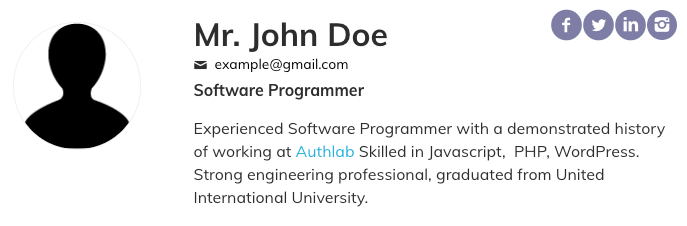
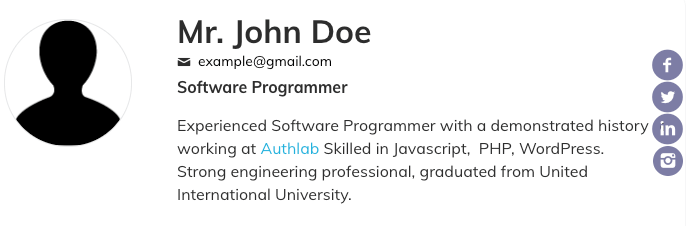
template 3 added

diff --git a/src/js/Components/Settings.vue b/src/js/Components/Settings.vue
@@ -14,17 +14,20 @@
         <div class="inner_box">
             <el-row class="users_template_row">
             </el-row>
-            <el-row class="users_template_row">
-                <el-col class="inner_column" :sm=22 :lg=18>
+            <el-row class="users_template_row" :gutter="20">
+                <el-col class="inner_column" :sm=22 :lg=10>
                     <el-radio class="template_radio" v-model="useTemp" label="template1">Template 1</el-radio>
                     <img :src="assets_url + 'admin/templates/template1.png'"/>
-
+                </el-col>
+                <el-col class="inner_column" :sm=22 :lg=10>
+                    <el-radio class="template_radio" v-model="useTemp" label="template2">Template 2</el-radio>
+                    <img :src="assets_url + 'admin/templates/template2.png'"/>
                 </el-col>
             </el-row>
             <el-row class="users_template_row">
-                <el-col class="inner_column" :sm=22 :lg=18>
-                    <el-radio class="template_radio" v-model="useTemp" label="template2">Template 2</el-radio>
-                    <img :src="assets_url + 'admin/templates/template2.png'"/>
+                <el-col class="inner_column" :sm=22 :lg=10>
+                    <el-radio class="template_radio" v-model="useTemp" label="template3">Template 3</el-radio>
+                    <img :src="assets_url + 'admin/templates/template3.png'"/>
                 </el-col>
             </el-row>
         </div>
@@ -65,8 +68,6 @@
 </script>
 <style lang="scss">
     .users_template_row {
-        max-width: 700px;
-
         .inner_column {
             position: relative;
         }

diff --git a/src/scss/Public/public.scss b/src/scss/Public/public.scss
@@ -6,52 +6,79 @@
   padding: 17px;
   display: flex;
   border-radius: 12px;
+
   h1.author_name {
     margin-bottom: 0px;
   }
+
   .author_bio_left_col {
     flex: 1 0 0px;
     padding: 7px 0 0 0;
-    img{
+
+    img {
       border-radius: 83px;
     }
 
   }
+
   .author_bio_content {
     flex: 3 0 0;
     padding: 0 0 0 20px;
+
+    .author_bio_content_inner {
+      position: relative;
+
+      .author_bio_socials {
+        text-align: center;
+        position: absolute;
+        right: -30px;
+        display: grid;
+      }
+    }
+
     .author_bio_socials {
       a {
-        margin-right:10px;
+        margin-right: 10px;
       }
     }
   }
+
   .author_email {
     text-decoration: none;
     font-size: 14px;
     margin: 0px;
     display: flex;
-    a{
+
+    a {
       color: black;
     }
-    .authbio-mail{
+
+    .authbio-mail {
       padding-top: 3px;
       padding-right: 7px;
     }
   }
+
   .author_bio_desig {
     font-weight: bold;
   }
-  .author_bio_left_col{
+
+  .author_bio_left_col {
     .author_bio_socials {
       justify-content: space-around;
       padding: 13px 0px 0px 0px;
+      display: flex;
+    }
+  }
+
+  .author_bio_socials_template1 {
+    .author_bio_socials {
+      display: flex;
     }
   }
 
   .author_bio_socials {
     text-align: center;
-    display: flex;
     i.authbio-instagrem {
       border-radius: 17px;
       font-size: 17px;
@@ -59,7 +86,8 @@
       color: white;
       padding: 6px 6px 3px 7px;
     }
-    a{
+
+    a {
       font-size: 32px;
       color: #7d7da5;
     }

diff --git a/includes/Classes/Builder/Render.php b/includes/Classes/Builder/Render.php
@@ -47,7 +47,7 @@ class Render
                     }
                     ?>
                 </div>
-                <?php if($template !== 'template1'){ ?>
+                <?php if($template !== 'template1' && $template !== 'template3'){ ?>
                     <div class="author_bio_socials">
 
                     <?php if ($socials['facebook'] === 'true') { ?>
@@ -79,37 +79,11 @@ class Render
             </div>
 
             <div class="author_bio_content">
+            <div class="author_bio_content_inner">
                 <h1 class="author_name">
                     <?php echo($data->author_name); ?>
                 </h1>
-                <?php
-                if ($data->author_email !== '') {
-                    ?>
-                    <div class="author_email">
-                        <i class="authbio-mail"></i>
-                        <a href="mailto:<?php echo($data->author_email); ?>">
-                            <?php echo($data->author_email); ?>
-                        </a>
-                    </div>
-                    <?php
-                }
-                ?>
-
-
-                <p class="author_bio_desig">
-                    <?php echo($data->author_designation); ?>
-                </p>
-
-                <div class="author_bio_descr">
-                    <?php
-                    if ($data->useBioFrom === 'newAddedBio') {
-                        echo($info['bio']);
-                    } else {
-                        echo wpautop(wp_kses_post($bio));
-                    }
-                    ?>
-                </div>
-                <?php if($template === 'template1'){ ?>
+                <?php if($template === 'template3'){ ?>
                     <div class="author_bio_socials">
 
                         <?php if ($socials['facebook'] === 'true') { ?>
@@ -138,7 +112,63 @@ class Render
 
                     </div>
                 <?php } ?>
+            </div>
+                <?php
+                if ($data->author_email !== '') {
+                    ?>
+                    <div class="author_email">
+                        <i class="authbio-mail"></i>
+                        <a href="mailto:<?php echo($data->author_email); ?>">
+                            <?php echo($data->author_email); ?>
+                        </a>
+                    </div>
+                    <?php
+                }
+                ?>
 
+                <p class="author_bio_desig">
+                    <?php echo($data->author_designation); ?>
+                </p>
+
+                <div class="author_bio_descr">
+                    <?php
+                    if ($data->useBioFrom === 'newAddedBio') {
+                        echo($info['bio']);
+                    } else {
+                        echo wpautop(wp_kses_post($bio));
+                    }
+                    ?>
+                </div>
+                <?php if($template === 'template1'){ ?>
+                    <div class="author_bio_socials_template1">
+                    <div class="author_bio_socials">
+                        <?php if ($socials['facebook'] === 'true') { ?>
+                            <a href="<?php echo $data->author_fb; ?>" target="_blank">
+                                <i class="authbio-facebook-circled"></i>
+                            </a>
+
+                        <?php }
+                        if ($socials['twitter'] === 'true') { ?>
+                            <a href="<?php echo $data->author_tw; ?> " target="_blank">
+                                <i class="authbio-twitter-circled"></i>
+                            </a>
+                        <?php }
+                        if ($socials['linkedin'] === 'true') { ?>
+
+                            <a href="<?php echo $data->author_ln; ?> " target="_blank">
+                                <i class="authbio-linkedin-circled"></i>
+                            </a>
+
+                        <?php }
+                        if ($socials['instagram'] === 'true') { ?>
+                            <a href="<?php echo $data->author_ins; ?> " target="_blank">
+                                <i class="authbio-instagrem"></i>
+                            </a>
+                        <?php } ?>
+
+                    </div>
+                    </div>
+                <?php } ?>
             </div>
         </div>
 

diff --git a/author-bio-by-shortcode.php b/author-bio-by-shortcode.php
@@ -95,6 +95,7 @@ if (!defined('AUTHORBIO_VERSION')) {
             $builder = new \AuthorBio\Classes\Builder\Render();
             $builder->Render();
         }
+
         public function loadDependecies()
         {
             require_once(AUTHORBIO_DIR . 'includes/autoload.php');
